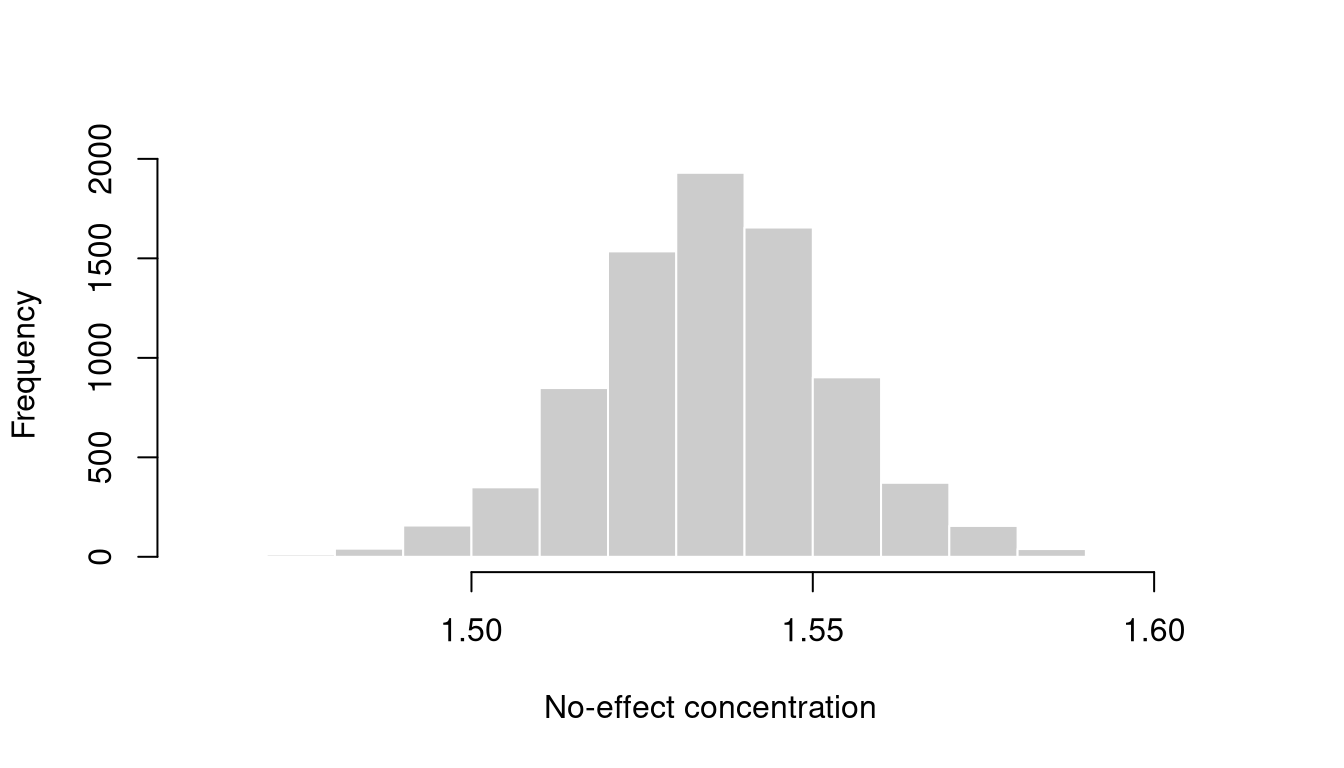
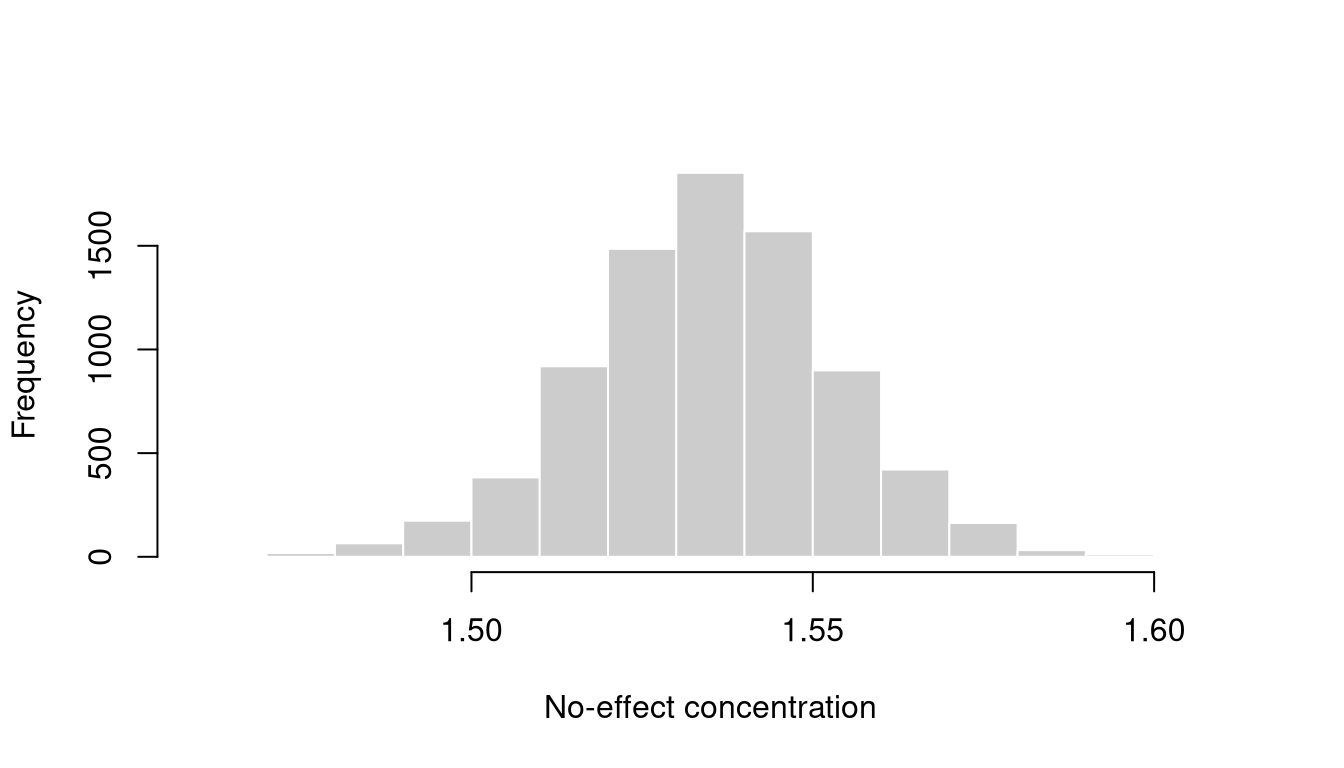
build against bayesnec dev, pin the commit, record the freeze trap
Rendered against open-AIMS/bayesnec@fc33ca84, head of dev, version 2.1.3.33.
Default resolution in ecx() and nsec() is 200 there rather than 1000.

freeze keys on the source document, not the environment, so a package
upgrade leaves stale results in place with no warning; _freeze must be
cleared per module after an upgrade. Both recorded.

Claude-Session: https://claude.ai/code/session_01S4TstQcmyZmVwrXnvRKigU

diff --git a/docs/vignettes/2Fitting-a-CR-model-using-bayesnec.html b/docs/vignettes/2Fitting-a-CR-model-using-bayesnec.html
@@ -402,13 +402,13 @@ Formula: y ~ top * exp(-exp(beta) * (x - nec) * step(x - nec))
 
 Regression Coefficients:
      Estimate Est.Error l-95% CI u-95% CI Rhat Bulk_ESS Tail_ESS
-top      0.89      0.01     0.88     0.90 1.00     6754     5905
-beta     0.54      0.05     0.43     0.65 1.00     5776     4871
-nec      1.54      0.02     1.50     1.57 1.00     5870     4997
+top      0.89      0.00     0.88     0.90 1.00     7239     5581
+beta     0.54      0.06     0.42     0.66 1.00     5466     5582
+nec      1.54      0.02     1.50     1.57 1.00     5365     4897
 
 Further Distributional Parameters:
     Estimate Est.Error l-95% CI u-95% CI Rhat Bulk_ESS Tail_ESS
-phi    51.99      7.62    38.25    68.32 1.00     6847     5389
+phi    51.90      7.49    38.81    68.07 1.00     6956     5566
 
 Draws were sampled using sampling(NUTS). For each parameter, Bulk_ESS
 and Tail_ESS are effective sample size measures, and Rhat is the potential
@@ -466,13 +466,13 @@ R2     0.96      0.00 0.96  0.97</code></pre>
 <div class="cell">
 <div class="code-copy-outer-scaffold"><div class="sourceCode cell-code" id="cb24"><pre class="sourceCode r code-with-copy"><code class="sourceCode r"><span id="cb24-1"><a href="#cb24-1" aria-hidden="true" tabindex="-1"></a><span class="fu">head</span>(bnec_fit<span class="sc">$</span>pred_vals<span class="sc">$</span>data)</span></code></pre></div><button title="Copy to Clipboard" class="code-copy-button"><i class="bi"></i></button></div>
 <div class="cell-output cell-output-stdout">
-<pre><code>           x Estimate      Q2.5     Q97.5
-1 0.03234801 0.889049 0.8784447 0.8985305
-2 0.03553938 0.889049 0.8784447 0.8985305
-3 0.03873074 0.889049 0.8784447 0.8985305
-4 0.04192210 0.889049 0.8784447 0.8985305
-5 0.04511347 0.889049 0.8784447 0.8985305
-6 0.04830483 0.889049 0.8784447 0.8985305</code></pre>
+<pre><code>           x  Estimate      Q2.5     Q97.5
+1 0.03234801 0.8891535 0.8790453 0.8985393
+2 0.03553938 0.8891535 0.8790453 0.8985393
+3 0.03873074 0.8891535 0.8790453 0.8985393
+4 0.04192210 0.8891535 0.8790453 0.8985393
+5 0.04511347 0.8891535 0.8790453 0.8985393
+6 0.04830483 0.8891535 0.8790453 0.8985393</code></pre>
 </div>
 </div>
 <p>Every fitted model carries a posterior for the no-effect estimate, in <code>ne_posterior</code>, with <code>ne_type</code> recording what kind of estimate it is. For models in the <code>nec</code> group this is the posterior of the <code>nec</code> parameter itself. For models in the <code>ecx</code> group, which have no threshold parameter, it is the posterior of the <em>NSEC</em> <span class="citation" data-cites="fisherfox2023">(<a href="#ref-fisherfox2023" role="doc-biblioref">Fisher and Fox 2023</a>)</span>. Module 3 explains why those are different things.</p>
@@ -517,9 +517,9 @@ R2     0.96      0.00 0.96  0.97</code></pre>
 <div class="code-copy-outer-scaffold"><div class="sourceCode cell-code" id="cb29"><pre class="sourceCode r code-with-copy"><code class="sourceCode r"><span id="cb29-1"><a href="#cb29-1" aria-hidden="true" tabindex="-1"></a><span class="fu">ecx</span>(bnec_fit)</span></code></pre></div><button title="Copy to Clipboard" class="code-copy-button"><i class="bi"></i></button></div>
 <div class="cell-output cell-output-stdout">
 <pre><code>     Q50     Q2.5    Q97.5 
-1.596116 1.564202 1.628030 
+1.596507 1.564500 1.628194 
 attr(,"resolution")
-[1] 1000
+[1] 200
 attr(,"ecx_val")
 [1] 10
 attr(,"toxicity_estimate")
@@ -528,23 +528,28 @@ attr(,"toxicity_estimate")
 <div class="code-copy-outer-scaffold"><div class="sourceCode cell-code" id="cb31"><pre class="sourceCode r code-with-copy"><code class="sourceCode r"><span id="cb31-1"><a href="#cb31-1" aria-hidden="true" tabindex="-1"></a><span class="fu">nec</span>(bnec_fit)</span></code></pre></div><button title="Copy to Clipboard" class="code-copy-button"><i class="bi"></i></button></div>
 <div class="cell-output cell-output-stdout">
 <pre><code>     Q50     Q2.5    Q97.5 
-1.535680 1.499262 1.569836 
+1.535023 1.497395 1.570493 
 attr(,"toxicity_estimate")
 [1] "nec"</code></pre>
 </div>
 <div class="code-copy-outer-scaffold"><div class="sourceCode cell-code" id="cb33"><pre class="sourceCode r code-with-copy"><code class="sourceCode r"><span id="cb33-1"><a href="#cb33-1" aria-hidden="true" tabindex="-1"></a><span class="fu">nsec</span>(bnec_fit)</span></code></pre></div><button title="Copy to Clipboard" class="code-copy-button"><i class="bi"></i></button></div>
+<div class="cell-output cell-output-stderr">
+<pre><code>Warning: The nec3param curve does not fall below the control's 0.01 quantile
+anywhere in the predictor range for 80 of 8000 draws, which return NA. The NSEC
+is censored above 3.22.</code></pre>
+</div>
 <div class="cell-output cell-output-stdout">
 <pre><code>     Q50     Q2.5    Q97.5 
-1.543764 1.509624 1.579198 
+1.542528 1.506930 1.575903 
 attr(,"resolution")
-[1] 1000
+[1] 200
 attr(,"sig_val")
 [1] 0.01
 attr(,"toxicity_estimate")
 [1] "nsec"
 attr(,"ecnsec_relativeP")
       50%      2.5%     97.5% 
-1.4820684 0.2220197 2.5817716 </code></pre>
+1.3659681 0.2317658 2.3962617 </code></pre>
 </div>
 </div>
 <p>Each returns a median and a 95% probability interval by default, and each records how it was computed in the attributes of the returned object: <code>ecx()</code> returns an <strong>EC10</strong> unless told otherwise, and <code>nsec()</code> uses a significance value of 0.01.</p>

diff --git a/CLAUDE.md b/CLAUDE.md
@@ -312,6 +312,29 @@ superseded drafts, background reading, the installer bundle and the 2023 build a
 It is git-ignored in full, so nothing placed there is backed up by the remote. This is the
 repository's equivalent of the `superceded/` folder in parent §7.
 
+**Freeze does not notice a package upgrade.** `execute: freeze: auto` keys on the source
+document, not on the environment that rendered it. Upgrading `bayesnec`, `brms` or Stan
+leaves every frozen result in place, so the site keeps publishing output from the previous
+version with no warning and no diff. Clear the stored result for the affected modules and
+re-render:
+
+```bash
+rm -rf _freeze/vignettes/<module>
+quarto render
+```
+
+Measured on 2026-09-11: module 2 was rendered under `bayesnec` 2.1.3.7, the package was
+upgraded to 2.1.3.33, and a plain `quarto render` reproduced the 2.1.3.7 output unchanged.
+The default `resolution` had changed from 1000 to 200 between those versions, so the
+published page would have reported a superseded default as current.
+
+After any package upgrade, clear `_freeze/` for every module that fits a model.
+
+**The `bayesnec` version the site is built against is pinned.** Modules are rendered against
+a named commit, not against whatever is installed, so that the published output and the
+version participants are told to install are the same thing. The current pin is recorded in
+`notes/setup-evidence.md`. Re-render every module after changing it.
+
 **Prompt logging.** Parent §10 applies. Course modules are teaching material about the
 analyses, so a change to a module's explanation of a method, to its code, or to which model
 is fitted **is** logged. Fixing a typo, restyling, or converting a document's format is

diff --git a/notes/setup-evidence.md b/notes/setup-evidence.md
@@ -80,6 +80,34 @@ measured, and the instructions should not imply otherwise.
 `vignettes/check_setup.R` reports on the first two directly, by inspecting `HOME`
 before anything is compiled.
 
+## The bayesnec version the site is built against
+
+The site is rendered against a named commit rather than against whatever happens
+to be installed, so that the published output and the version participants are
+told to install cannot diverge.
+
+**Current pin: `open-AIMS/bayesnec` at `fc33ca8424b7100dc53feed7f6538a9eac1a31ba`**,
+the head of `dev` on 2026-09-11, reporting version 2.1.3.33 and `NEWS.md` for
+2.2.0. Installed with:
+
+```r
+remotes::install_github("open-AIMS/bayesnec",
+                        ref = "fc33ca8424b7100dc53feed7f6538a9eac1a31ba")
+```
+
+This is an interim pin. It is not the feature branch `issue-309-init-search`,
+which was the checkout in the local working tree on that date and which sat nine
+commits off `dev`; a course should not be built against unmerged work. It is
+expected to be replaced by a release tag once the 2.2.0 development work
+concludes, at which point module 1's placeholder is filled with the release
+version and every module is re-rendered.
+
+Two 2.2.0 changes were confirmed present at this commit by rendering module 2
+against it: the default `resolution` in `ecx()` and `nsec()` is 200 rather than
+1000, and `hormesis_def` is absent from both while `ecnsec()` exists. The
+`ne_posterior` and `ne_type` elements of a `bayesnecfit`, and the `ecx()` default
+of EC10 and `nsec()` default `sig_val` of 0.01, are unchanged from 2.1.3.7.
+
 ## Instruction corrections for module 1
 
 - Rtools must match R: **Rtools45 for R 4.5.x**, Rtools44 for 4.4.x. Module 1
